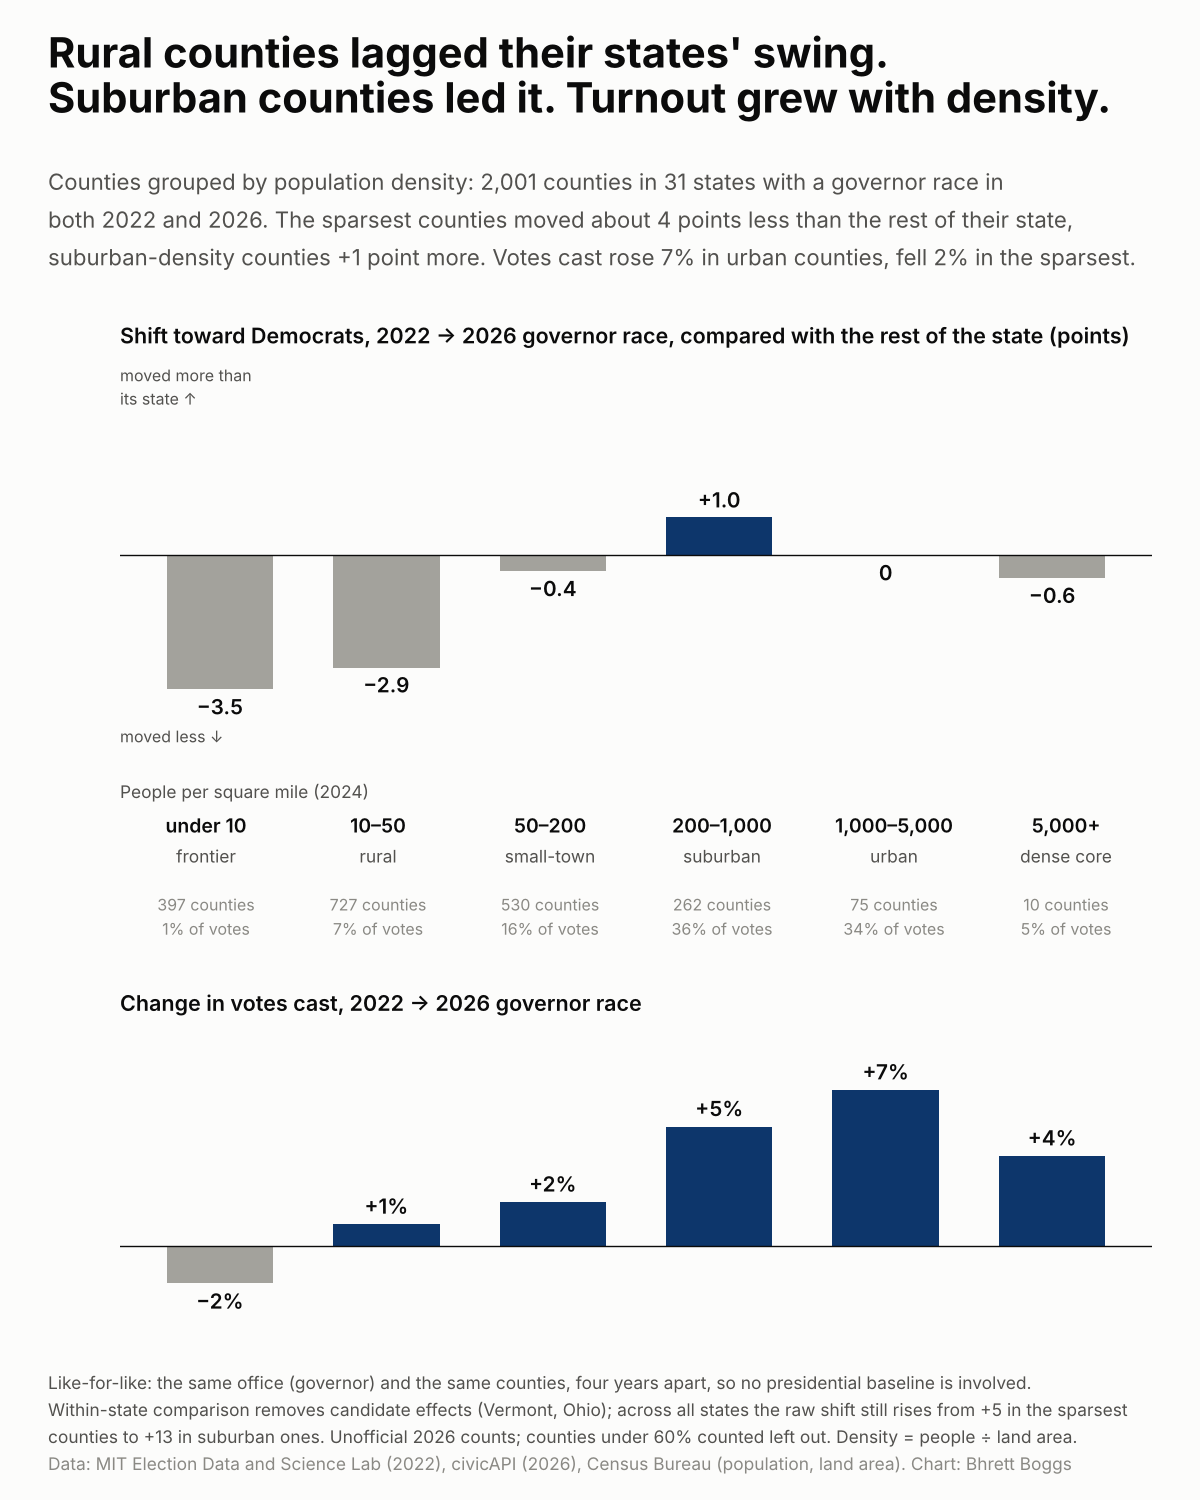
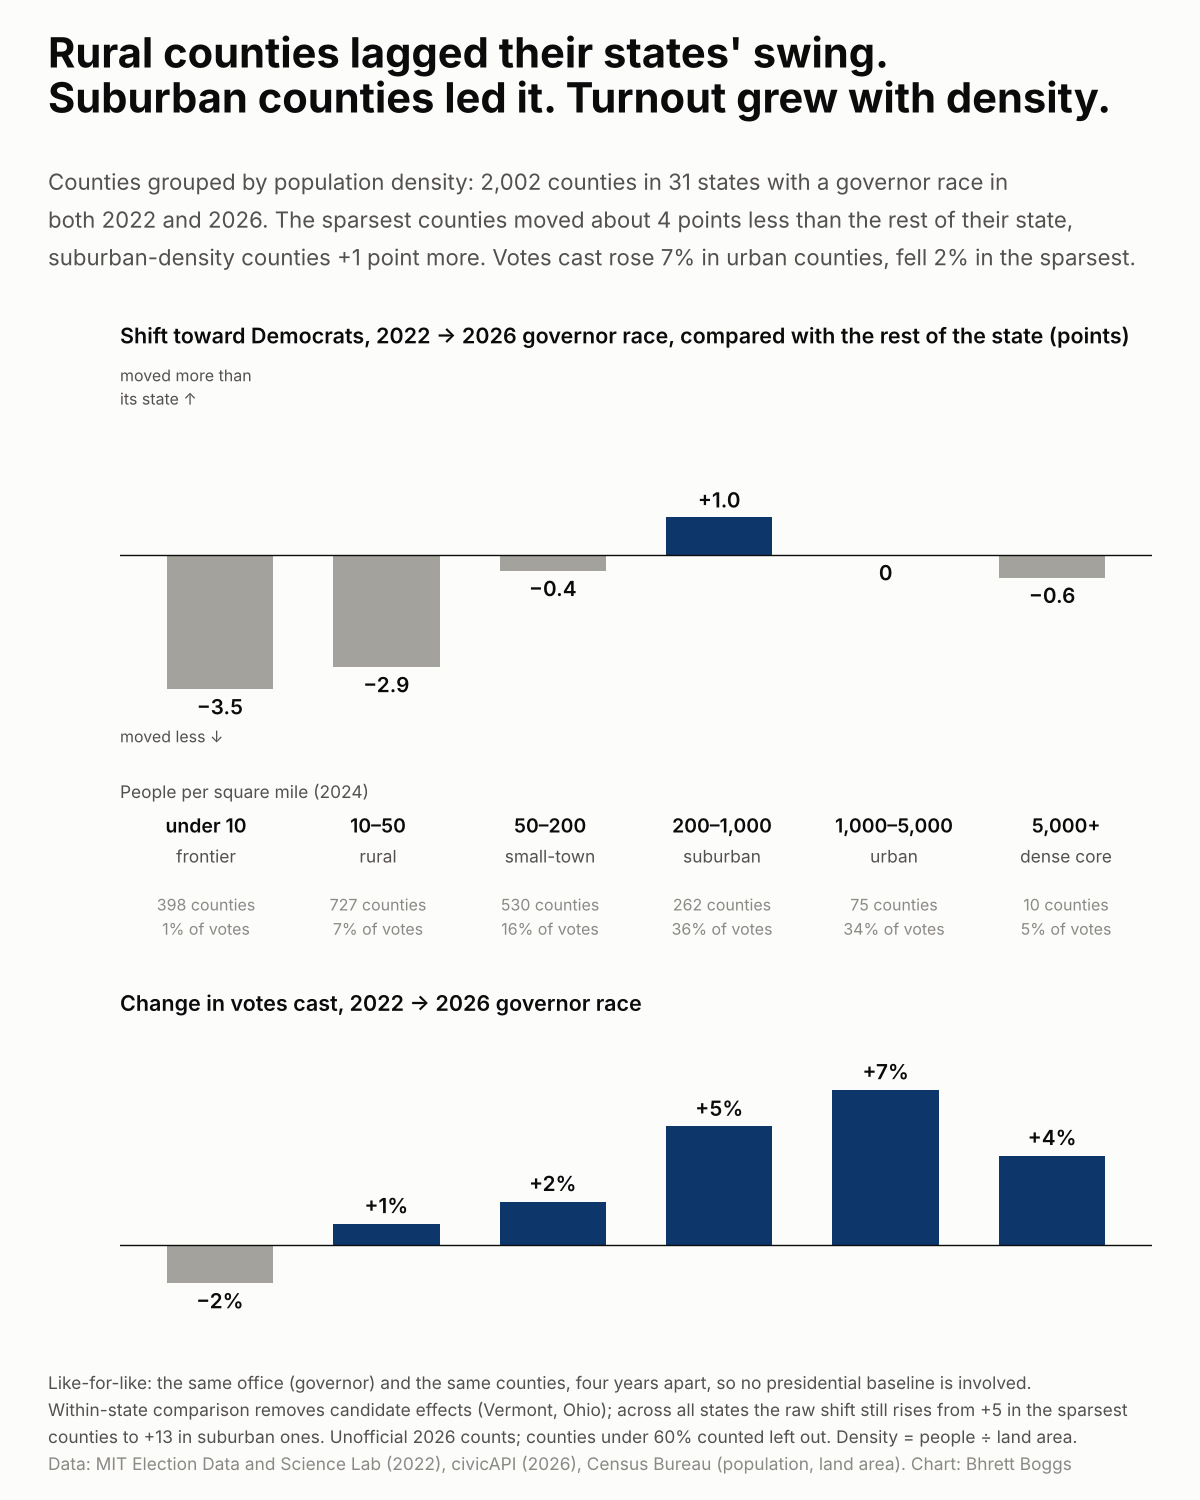
Map Oglala Lakota County's old FIPS code so its 2022 and 2026 results pair up

diff --git a/pipeline/aggregate_medsl_2022.py b/pipeline/aggregate_medsl_2022.py
@@ -78,6 +78,7 @@ def aggregate(d: pd.DataFrame) -> pd.DataFrame:
     d["office"] = d.office.map({"US SENATE": "SEN", "GOVERNOR": "GOV"})
     d["special"] = d.special.astype(str).str.upper().eq("TRUE")
     d["county_fips"] = d.county_fips.astype(str).str.zfill(5)
+    d["county_fips"] = d.county_fips.replace({"46113": "46102"})  # Shannon County, SD became Oglala Lakota (46102) in 2015
     d.loc[~d.county_fips.str.fullmatch(r"\d{5}") | d.county_name.str.contains("FLOATING", na=False), "county_fips"] = "unassigned"
     d["precinct"] = d.precinct.fillna("")
 

diff --git a/SOURCES.md b/SOURCES.md
@@ -18,4 +18,4 @@ All files in `data/raw/` were downloaded on November 7, 2026 (exit-poll tables o
 | `exit_polls/roper_how_groups_voted_1996_2024.csv` | Presidential exit polls by group, 1996–2024 | [Roper Center, How Groups Voted](https://ropercenter.cornell.edu/how-groups-voted) | Cite the Roper Center; national exit poll consortium data |
 | `exit_polls/wikipedia_house_exit_polls_2006_2026.csv` | National House vote by group, midterms 2006–2026, transcribed from Wikipedia's tables. 2006–2022: Edison Research exit polls for the National Election Pool. 2026: [The Voter Poll by SSRS](https://ssrs.com/ssrs-solutions/voter-poll/), the networks' and AP's replacement for the exit poll (a large pre-election survey plus in-person interviews in 15 states); every 2026 figure was checked against [ABC News's tables](https://abcnews.com/Elections/polls-2026-us-house-election-results-analysis) | Wikipedia election articles; Edison/NEP; SSRS | CC BY-SA 4.0 (Wikipedia tables); cite the pollsters |
 | `carmena/` | 2026 early-vote data (not used yet) | [carmenaresearch/election-data](https://github.com/carmenaresearch/election-data) | CC BY 4.0 |
-| `medsl/county_sen_gov_2022.csv` | 2022 general-election Senate and governor votes by county (D / R / other), aggregated by `pipeline/aggregate_medsl_2022.py` from MIT Election Lab's precinct-level files (one zip per state, ~2 GB unzipped, downloaded November 8, 2026). Not in the file: Alaska (no county units), Tennessee's governor race (absent from the source), 57 Indiana counties (no precinct data). New Mexico's party labels and Wyoming's Democratic nominee are filled in by hand (see the script). | [MEDSL/2022-elections-official](https://github.com/MEDSL/2022-elections-official), MIT Election Data and Science Lab | Cite the dataset: MIT Election Data and Science Lab, "2022 Precinct-Level Returns" |
+| `medsl/county_sen_gov_2022.csv` | 2022 general-election Senate and governor votes by county (D / R / other), aggregated by `pipeline/aggregate_medsl_2022.py` from MIT Election Lab's precinct-level files (one zip per state, ~2 GB unzipped, downloaded November 8, 2026). Not in the file: Alaska (no county units), Tennessee's governor race (absent from the source), 57 Indiana counties (no precinct data). New Mexico's party labels and Wyoming's Democratic nominee are filled in by hand, and Oglala Lakota County, SD is moved from its old code (46113) to its current one (46102); see the script. | [MEDSL/2022-elections-official](https://github.com/MEDSL/2022-elections-official), MIT Election Data and Science Lab | Cite the dataset: MIT Election Data and Science Lab, "2022 Precinct-Level Returns" |

diff --git a/data/clean/CHECKS.md b/data/clean/CHECKS.md
@@ -1,6 +1,6 @@
 # Pipeline checks
 
-Generated 2026-11-08 16:02 by `pipeline/run_all.py`. Results are unofficial until states certify; re-run after certification.
+Generated 2026-11-08 16:08 by `pipeline/run_all.py`. Results are unofficial until states certify; re-run after certification.
 
 - results: one reporting level per state; dropped duplicate levels County (40), House District (320), Overseas (8), Town (7702), Township (2982)
 - results: 0 places could not be matched to a county code (0.000% of votes); see unmatched_places.csv
@@ -11,9 +11,8 @@ Generated 2026-11-08 16:02 by `pipeline/run_all.py`. Results are unofficial unti
 - map: states with no Senate or governor race in the data: DC, IN, MO, ND, UT, WA
 - map: states under 95% reporting (median county): AK 66%, CA 70%, WV 74%, PA 79%, AZ 80%, SD 80%, OK 81%, NJ 83%, KY 84%, GA 84%, TN 84%, MT 85%, AR 85%, RI 86%, WY 87%, MD 87%, HI 87%, NM 87%, NV 87%, WI 88%, DE 89%, KS 89%, FL 90%, NY 90%, IL 91%, CO 92%, TX 92%, OR 92%, NH 92%, MA 92%, NC 93%, OH 93%, ID 93%, VT 93%, ME 94%, AL 94%, MI 95%
 - baseline 2022: races not Democrat-vs-Republican at the top in 2022 (skipped): UT SEN
-- baseline 2022: governor-vs-governor in 31 states (2,015 counties); Senate-vs-Senate in 16 states (1,278 counties)
+- baseline 2022: governor-vs-governor in 31 states (2,016 counties); Senate-vs-Senate in 16 states (1,278 counties)
 - baseline 2022: 2026 races with no 2022 same-office baseline: AK GOV, AK SEN, DE SEN, MA SEN, ME SEN, MI SEN, MN SEN, MS SEN, NJ SEN, NM SEN, RI SEN, TN GOV, TN SEN, TX SEN, VA SEN, WV SEN, WY SEN
-- baseline 2022 GOV: 1 2022 counties in matched states had no 2026 county match (0.00% of their votes); e.g. SD OGLALA LAKOTA
 - baseline 2022 GOV: vote-weighted county shift since 2022 +12.1 points; 81% of counties moved toward Democrats
 - baseline 2022 SEN: vote-weighted county shift since 2022 +15.0 points; 94% of counties moved toward Democrats
 - outside money: 899 rows / $6M dropped as re-reports of the same expenditure in a later filing

diff --git a/README.md b/README.md
@@ -12,7 +12,7 @@ kind of electorate constant.
 
 | Visual | Finding |
 |--------|---------|
-| [Same office, same counties, four years apart](viz/gov_swing_2022_2026/gov_swing_2022_2026.png) | Governor races moved 12 points toward Democrats from 2022 to 2026 (vote-weighted, 2,001 counties in 31 states); 81% of counties moved that way. Vermont (+40), Alabama, Ohio (+32) and Iowa (+29) moved most, Kansas (−3) and Massachusetts (−2) moved the other way. |
+| [Same office, same counties, four years apart](viz/gov_swing_2022_2026/gov_swing_2022_2026.png) | Governor races moved 12 points toward Democrats from 2022 to 2026 (vote-weighted, 2,002 counties in 31 states); 81% of counties moved that way. Vermont (+40), Alabama, Ohio (+32) and Iowa (+29) moved most, Kansas (−3) and Massachusetts (−2) moved the other way. |
 | [Two yardsticks, one swing](viz/two_yardsticks/two_yardsticks.png) | The median state's governor swing is +11 against 2022's governor race and +12 against the 2024 presidential vote, so the national story doesn't depend on the baseline. Individual states do: Vermont is +40 by one yardstick and −38 by the other, Kansas −2 vs +17, Oklahoma +8 vs +28. Those gaps are candidates, not voters. |
 | [Rural, suburban, urban](viz/density_swing/density_swing.png) | Within states, the sparsest counties moved 3–4 points less than the rest of their state, suburban-density counties 1 point more; votes cast rose 7% in urban counties and fell 2% in the sparsest. |
 
